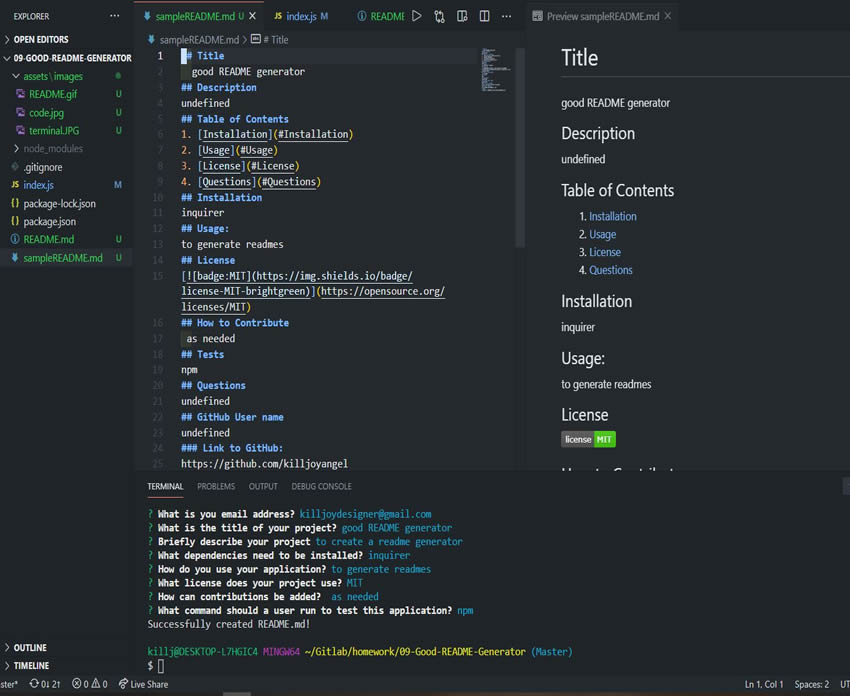
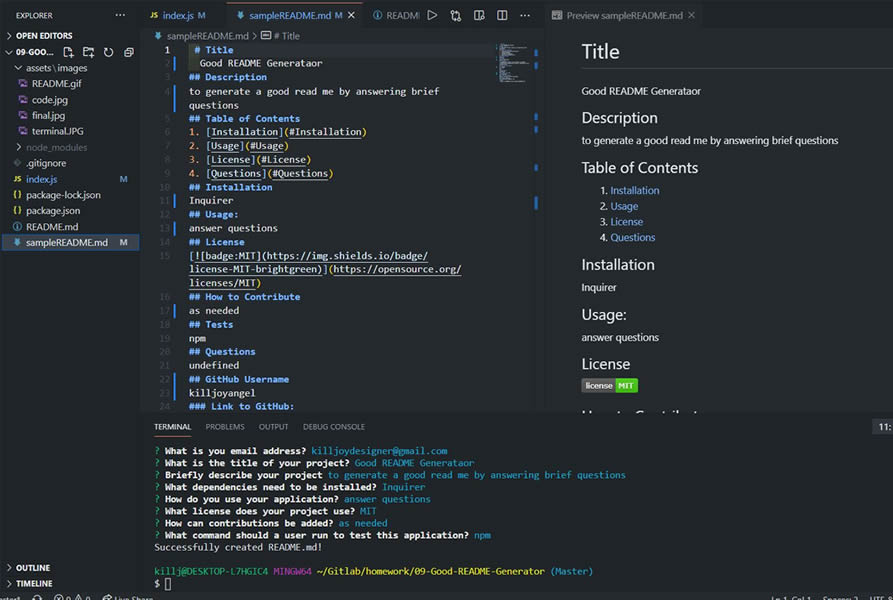
yall goin to make me lose my mind, up in here, up in here,

diff --git a/index.js b/index.js
@@ -27,8 +27,8 @@ ${answers.Contribute}
 ${answers.Tests}
 ## Questions
 ${answers.Questions}
-## GitHub User name 
-${answers.usernName}
+## GitHub Username 
+${answers.Username}
 ### Link to GitHub:
 https://github.com/killjoyangel
 ### Email address 
@@ -41,7 +41,7 @@ inquirer
 .prompt([
     {
         type: 'input',
-        name: 'username',
+        name: 'Username',
         message: 'GitHub username?',
     },
     {
@@ -56,7 +56,7 @@ inquirer
     },
     {
         type: 'input',
-        name: 'description',
+        name: 'Description',
         message:'Briefly describe your project',
     },
     {
@@ -95,7 +95,7 @@ inquirer
 //file path to print read me
 .then((answers) => {
     const READMEPageContent = generateREADME(answers);
-    fs.writeFile('README.md', READMEPageContent, (err) =>
+    fs.writeFile('sampleREADME.md', READMEPageContent, (err) =>
     err ? console.log(err) : console.log('Successfully created README.md!')
     );
 });

diff --git a/sampleREADME.md b/sampleREADME.md
@@ -1,26 +1,26 @@
  # Title
-  good README generator
+  Good README Generataor
 ## Description
-undefined
+to generate a good read me by answering brief questions
 ## Table of Contents
 1. [Installation](#Installation)
 2. [Usage](#Usage)
 3. [License](#License)
 4. [Questions](#Questions)
 ## Installation
-inquirer
+Inquirer
 ## Usage:
-to generate readmes
+answer questions
 ## License
 [![badge:MIT](https://img.shields.io/badge/license-MIT-brightgreen)](https://opensource.org/licenses/MIT)
 ## How to Contribute
- as needed
+as needed
 ## Tests
 npm
 ## Questions
 undefined
-## GitHub User name 
-undefined
+## GitHub Username 
+killjoyangel
 ### Link to GitHub:
 https://github.com/killjoyangel
 ### Email address 
